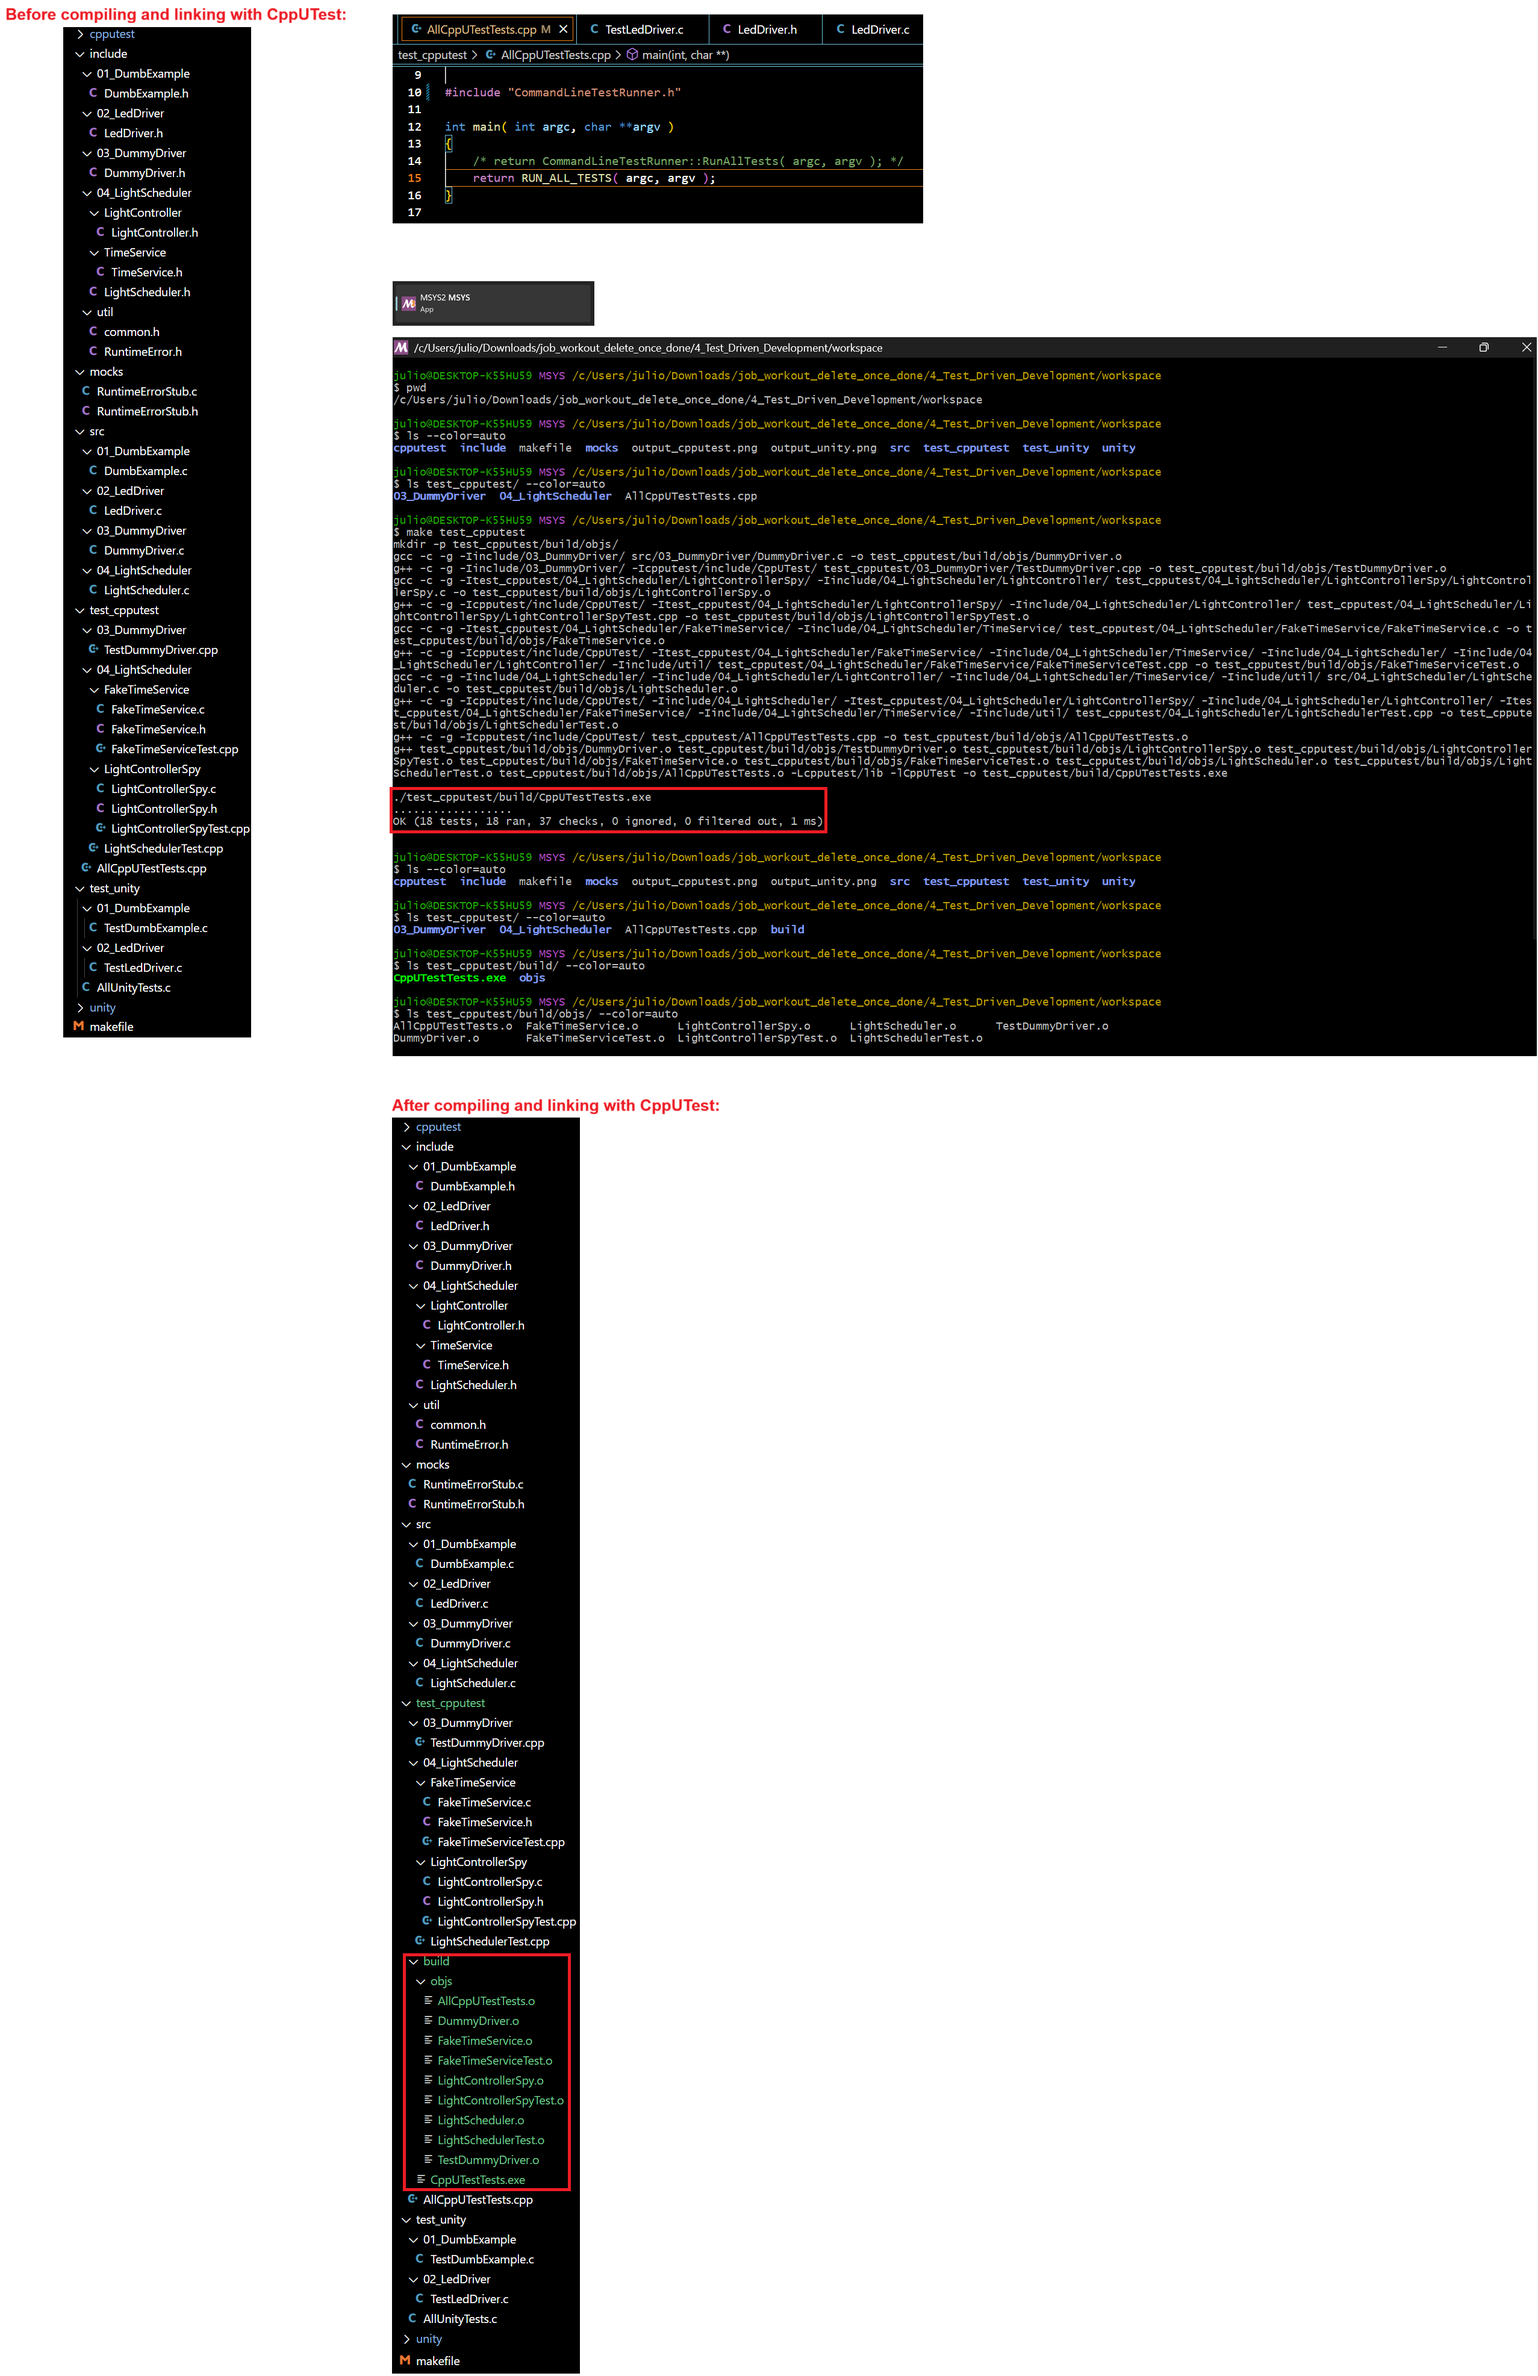
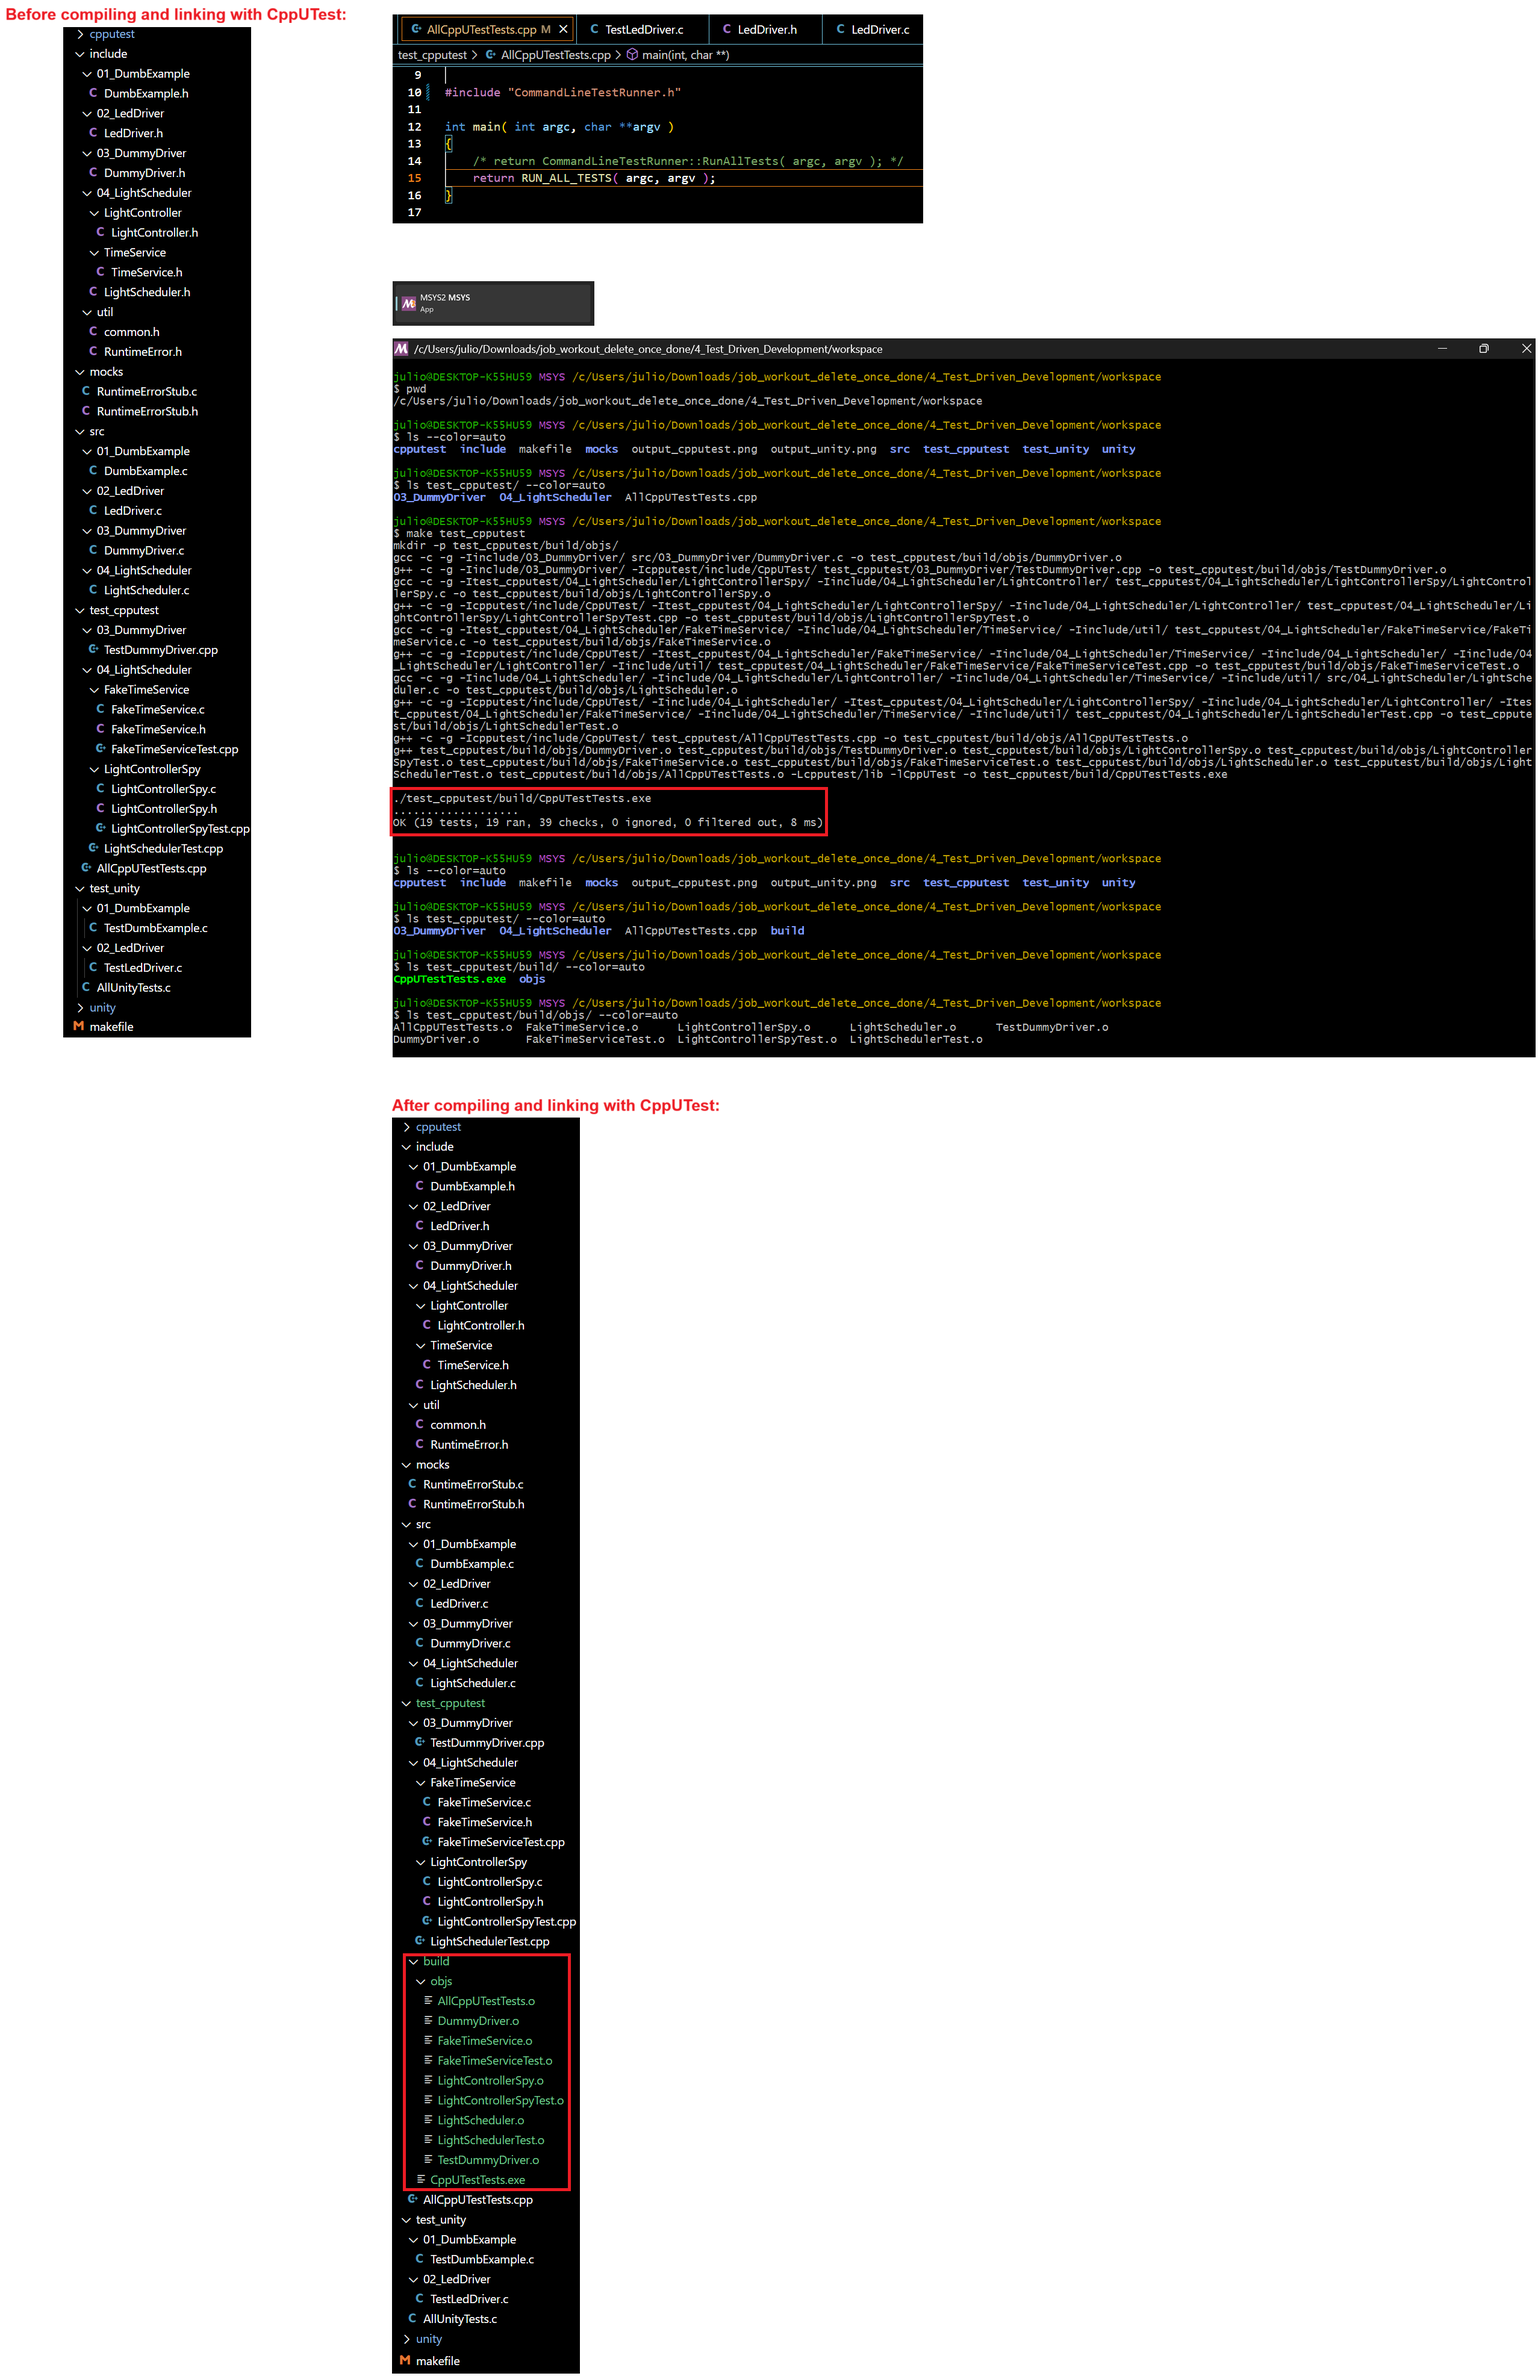
Add LightSchedulerInitAndCleanup DestroyCancelsOneMinuteAlarm test

Changed region(s): [[0.2475, 0.1559, 1.0, 0.4364]]

diff --git a/test_cpputest/04_LightScheduler/FakeTimeService/FakeTimeService.c b/test_cpputest/04_LightScheduler/FakeTimeService/FakeTimeService.c
@@ -71,6 +71,24 @@ void TimeService_SetPeriodicAlarmInSeconds( int seconds, WakeUpCallback cb )
     period   = seconds;
 }
 
+/* Function that controls the information returned to the CUT during the Fake's mission.
+   This information is controlled through the interface (TimeService_CancelPeriodicAlarmInSeconds())
+   of the replaced collaborator (Time Service). The fake simple resets the function pointer and its period
+   and reports it on demand.
+   
+   Here, we use a test double for TimeService_CancelPeriodicAlarmInSeconds(), which (originally implemented in TimeService.c)
+   is substituted during link-time (so that it uses the test version from FakeTimeService.c instead) */
+void TimeService_CancelPeriodicAlarmInSeconds( int seconds, WakeUpCallback cb )
+{
+    /* if the specified alarm is set */
+    if ( ( cb == callback ) && ( period == seconds ) )
+    {
+        /* "destroy" it */
+        callback = NULL;
+        period   = 0;
+    }
+}
+
 /* As explained in the description of this file, time is a volatile input that makes testing a challenge.
    Waiting for timed events takes too long. Here this interface takes over the clock making it possible 
    to set a specific minute of the day */

diff --git a/test_cpputest/04_LightScheduler/LightSchedulerTest.cpp b/test_cpputest/04_LightScheduler/LightSchedulerTest.cpp
@@ -96,6 +96,20 @@ TEST( LightSchedulerInitAndCleanup, CreateStartsOneMinuteAlarm )
     LONGS_EQUAL( 60, FakeTimeSource_GetAlarmPeriodInSeconds() );
 }
 
+TEST( LightSchedulerInitAndCleanup, DestroyCancelsOneMinuteAlarm )
+{
+    /* This test assures LightScheduler_Destroy() cancels the periodic alarm
+       registered during the Light Scheduler initialization with LightScheduler_Create() */
+    LightScheduler_Create();
+
+    /* "destroy" the periodic alarm */
+    LightScheduler_Destroy();
+
+    /* check the expected outcome, there's no registered alarm callback and period is 0 */
+    POINTERS_EQUAL( NULL, ( void* ) FakeTimeService_GetAlarmCallback() );
+    LONGS_EQUAL( 0, FakeTimeSource_GetAlarmPeriodInSeconds() );
+}
+
 
 /****************************** LightScheduler TEST GROUP ******************************/
 TEST_GROUP( LightScheduler )
@@ -112,6 +126,7 @@ TEST_GROUP( LightScheduler )
     void teardown()
     {
         /* clean up steps are executed after each TEST */
+        LightScheduler_Destroy();
     }
 };
 

diff --git a/src/04_LightScheduler/LightScheduler.c b/src/04_LightScheduler/LightScheduler.c
@@ -112,6 +112,13 @@ void LightScheduler_Create( void )
     TimeService_SetPeriodicAlarmInSeconds( 60, LightScheduler_Wakeup );
 }
 
+void LightScheduler_Destroy( void )
+{
+    /* unregister the alarm callback function previously registered with TimeService_SetPeriodicAlarmInSeconds()
+       which is called in LightScheduler_Create() */
+    TimeService_CancelPeriodicAlarmInSeconds( 60, LightScheduler_Wakeup );
+}
+
 void LightScheduler_ScheduleTurnOn( int id, Day day, int minuteOfDay )
 {
     /* This function DOES NOT turn on the scheduled light when the time comes.

diff --git a/include/04_LightScheduler/LightScheduler.h b/include/04_LightScheduler/LightScheduler.h
@@ -22,6 +22,7 @@
     } Day;
 
     void LightScheduler_Create( void );
+    void LightScheduler_Destroy( void );
     void LightScheduler_ScheduleTurnOn( int id, Day day, int minuteOfDay );
     void LightScheduler_ScheduleTurnOff( int id, Day day, int minuteOfDay );
     void LightScheduler_Wakeup( void );

diff --git a/test_cpputest/04_LightScheduler/FakeTimeService/FakeTimeService.h b/test_cpputest/04_LightScheduler/FakeTimeService/FakeTimeService.h
@@ -15,6 +15,7 @@
        (Real) Time Service, this takes place during the linking stage.
        Therefore include the .h header from production code, but those functions will be linked to the fake instead */
     #include "TimeService.h"
+    #include "common.h"
 
     enum { TIME_UNKNOWN = -1 };
 

diff --git a/include/04_LightScheduler/TimeService/TimeService.h b/include/04_LightScheduler/TimeService/TimeService.h
@@ -28,5 +28,6 @@
     void TimeService_Create( void );
     void TimeService_GetTime( Time *time );
     void TimeService_SetPeriodicAlarmInSeconds( int seconds, WakeUpCallback cb );
+    void TimeService_CancelPeriodicAlarmInSeconds( int seconds, WakeUpCallback cb );
  
 #endif

diff --git a/include/util/common.h b/include/util/common.h
@@ -18,4 +18,8 @@
     #define TRUE 1
     #endif
 
+    #ifndef NULL
+    #define NULL 0
+    #endif
+
 #endif
